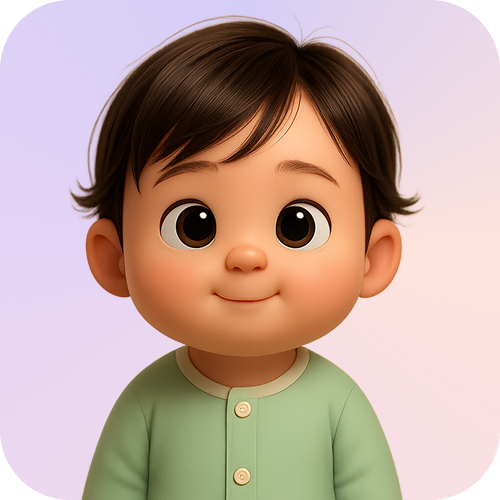
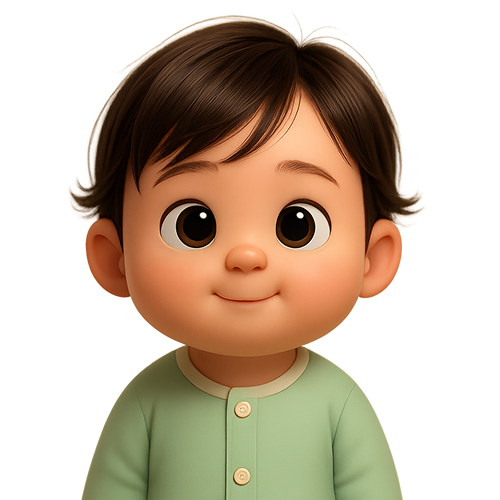
feat: 메인페이지 아이 배경 css 구현[S13P11A702-66]

diff --git a/AI_Contact_FE/src/components/BabyAvatar.tsx b/AI_Contact_FE/src/components/BabyAvatar.tsx
@@ -10,13 +10,8 @@ export default function BabyAvatar() {
     <div className="baby-container">
       <div className="baby-avatar-wrapper">
         <h1 className="baby-name"> 포비 </h1>
-        {/* 아기 사진을 감싸는 최상위 컨테이너
-        이 div는 CSS에서 중앙 정렬 역할을 담당함 */}
         <div className="image-wrapper">
-          {/* 실제로 표시되는 아기 이미지
-        className을 통해서 css 스타일 */}
           <img src={babyImage} alt="포비" className="baby-image" />
-
           <img
             src={talkbaby}
             alt="이야기하기"
@@ -27,11 +22,8 @@ export default function BabyAvatar() {
       </div>
 
       <div className="baby-stats">
-        <div># 아빠와의 친밀도 💗💗💗🤍🤍</div>
-        <div># 엄마와의 친밀도 💗💗💗💗🤍</div>
-        <div>
-          # 나이 <strong>2살</strong> | # 현재 기분 😊 <strong>행복함</strong>
-        </div>
+        <div>2살</div>
+        <div>😊 행복함</div>
       </div>
     </div>
   );

diff --git a/AI_Contact_FE/src/styles/BabyAvatar.css b/AI_Contact_FE/src/styles/BabyAvatar.css
@@ -18,15 +18,13 @@
 }
 
 .baby-stats {
+  display: flex;
+  gap: 20px;
   text-align: center;
-  font-size: 16px;
   margin-top: 20px;
-  color: #444;
-}
-
-.baby-stats strong {
-  font-weight: bold;
-  color: #222;
+  color: var(--text-dark);
+  font-size: 20px;
+  font-weight: 500;
 }
 
 .image-wrapper {
@@ -46,6 +44,16 @@
   border-radius: 20%; /* 원형 이미지 */
   object-fit: contain; /* 이미지 비율 유지한 상태로 박스에 꽉 채우기 */
   display: block;
+  box-shadow: 0px 0px 10px 0 rgba(115, 90, 225, 0.3),
+    0px 0px 10px 0 rgba(115, 90, 225, 0.3) inset;
+  background: conic-gradient(
+    from 315deg at 52% 52%,
+    rgba(255, 163, 139, 0.3) 0%,
+    rgba(211, 136, 181, 0.3) 25%,
+    rgba(166, 110, 224, 0.3) 50%,
+    rgba(115, 90, 225, 0.3) 75%,
+    rgba(255, 163, 139, 0.3) 100%
+  );
 }
 
 .baby-name {
